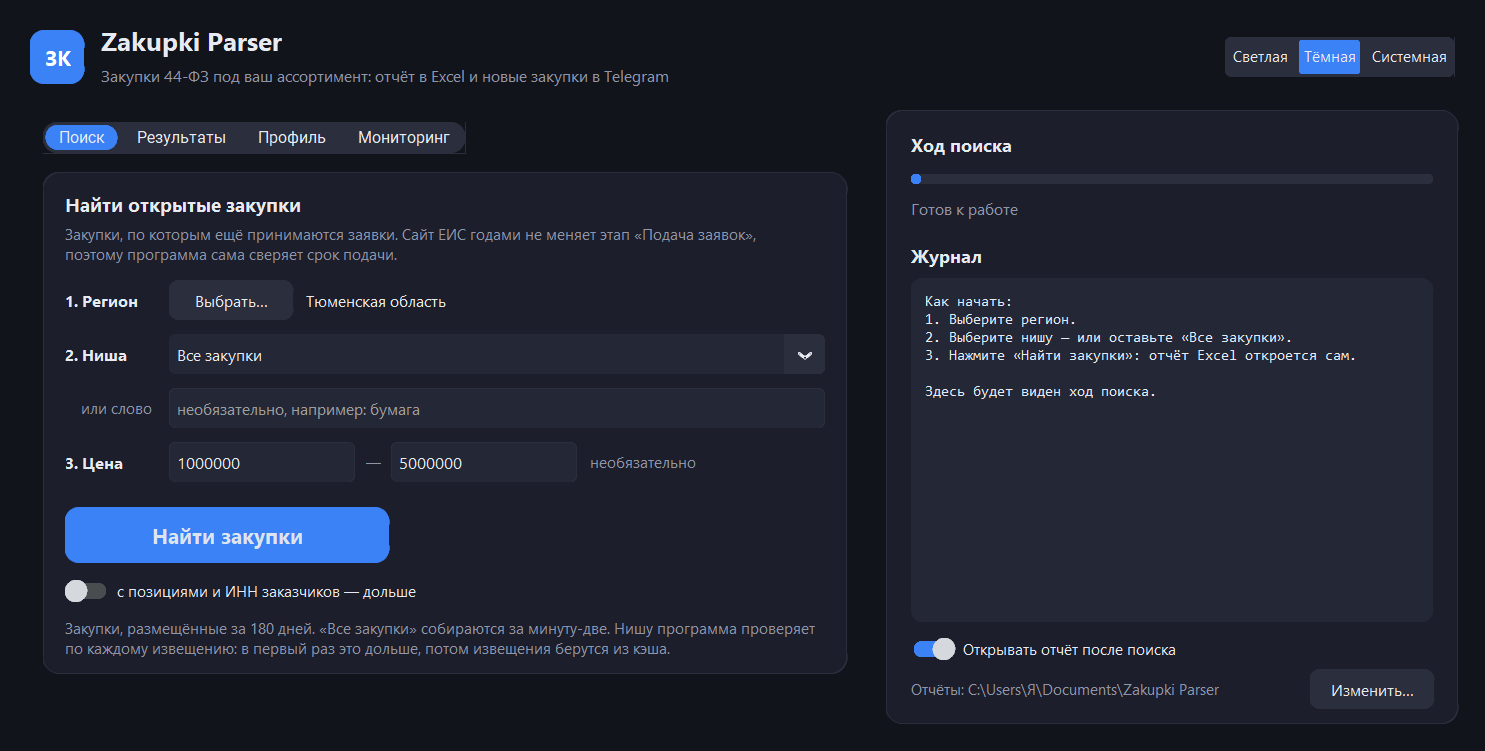
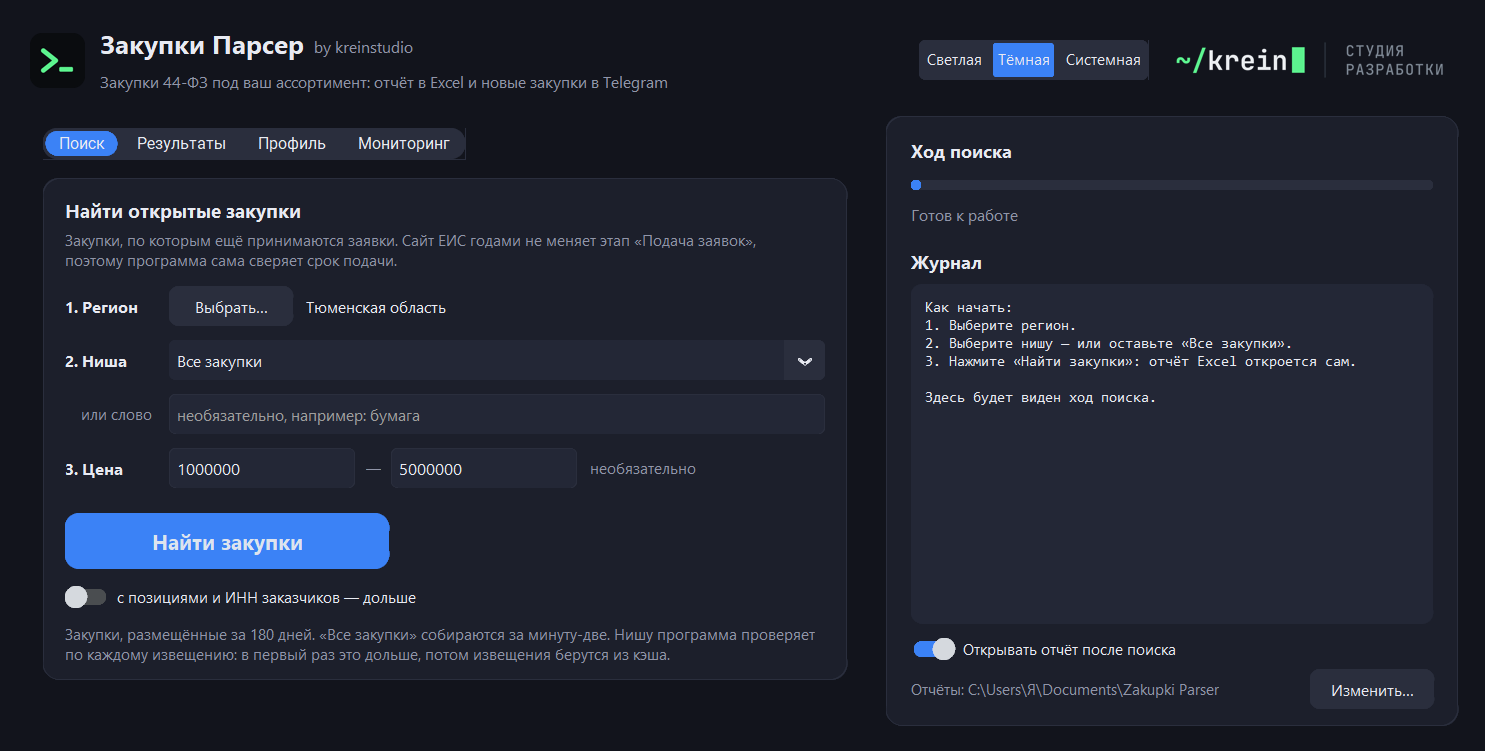
Фирменный стиль автора: «Закупки Парсер by kreinstudio»
- Шапка окна: иконка >_ из фирменного набора krein вместо синего «ЗК», название
  «Закупки Парсер» и ссылка «by kreinstudio», справа полный логотип «~/krein |
  студия разработки» в цвет темы; щелчок открывает kreinstudio.ru. Папки и файлы
  по-прежнему «Zakupki Parser» — отчёты и настройки остаются на месте.
- Значок окна, панели задач и .exe — та же иконка >_ (tools/make_icon.py собирает
  icon.ico из assets/brand/icon-dark-512.png).
- README: логотип в шапке (светлый и тёмный под тему GitHub), заголовок
  «Закупки Парсер»; логотип — знак автора, под MIT не распространяется.
- Pillow стал зависимостью программы: картинки в окне CustomTkinter показывает
  через неё. Без неё окно работает, только без картинок.
- GIF: одна палитра на все кадры с фирменными цветами — своя палитра у каждого
  кадра делала зелёный курсор логотипа серым; заодно файл вдвое меньше.

diff --git a/zkparser/gui/app.py b/zkparser/gui/app.py
@@ -38,7 +38,7 @@ from ..pipeline import Found, RunResult, run_profiles
 from ..profiles import Profile, ProfileError, from_template, load_profile, load_templates, parse_profile, save_profile
 from ..regions import REGIONS
 from ..scheduler import MOSCOW, SchedulerError
-from ..settings import APP_NAME, app_data_dir, default_cache_dir, default_output_dir, profiles_dir
+from ..settings import app_data_dir, default_cache_dir, default_output_dir, profiles_dir
 from ..telegram import SecretFilter, TelegramBot, TelegramError
 from ..website.client import SiteClient
 from . import theme
@@ -66,6 +66,10 @@ NEW_PROFILE = "— новый профиль —"
 NEW_MENU = "Новый профиль…"
 EMPTY_TEMPLATE = "Пустой"
 MAX_RESULT_CARDS = 60
+TITLE = "Закупки Парсер"  # the name the window shows; folders and files keep APP_NAME, "Zakupki Parser"
+BRAND_URL = "https://kreinstudio.ru/"
+ICON_SIZE = (44, 44)
+LOGO_SIZE = (233, 46)  # the full logo, 1651×326, with its clear space: the drawing is 213 px wide (the minimum 200)
 SEARCH_TAB, RESULTS_TAB, PROFILE_TAB, MONITORING_TAB = "Поиск", "Результаты", "Профиль", "Мониторинг"
 ALL_NOTICES = "Все закупки"
 MY_PROFILE = "Мой профиль: "  # a saved profile in the niche menu; templates are listed by their names
@@ -116,7 +120,7 @@ class App(ctk.CTk):
         self._filters_loaded = False
         self._closing = False
 
-        self.title(f"{APP_NAME} {__version__}")
+        self.title(f"{TITLE} {__version__}")
         self._size_window(1240, 820)
         icon = theme.resource_path("assets/icon.ico")
         if icon.exists():
@@ -171,16 +175,31 @@ class App(ctk.CTk):
     def _build_header(self) -> None:
         header = ctk.CTkFrame(self, fg_color="transparent")
         header.pack(fill="x", padx=24, pady=(18, 14))
-        ctk.CTkLabel(header, text="ЗК", width=44, height=44, corner_radius=12, fg_color=theme.ACCENT,
-                     text_color="#FFFFFF", font=theme.font(17, "bold")).pack(side="left")
+        icon = _brand_image("icon-dark-512.png", "icon-dark-512.png", ICON_SIZE)
+        if icon:
+            ctk.CTkLabel(header, image=icon, text="").pack(side="left")
+        else:  # sources run without Pillow
+            ctk.CTkLabel(header, text=">_", width=44, height=44, corner_radius=12, fg_color="#0A0C0F",
+                         text_color="#5CF28E", font=theme.font(17, "bold")).pack(side="left")
         titles = ctk.CTkFrame(header, fg_color="transparent")
         titles.pack(side="left", padx=12)
-        ctk.CTkLabel(titles, text=APP_NAME, font=theme.font(21, "bold"), text_color=theme.TEXT).pack(anchor="w")
+        name = ctk.CTkFrame(titles, fg_color="transparent")
+        name.pack(anchor="w")
+        ctk.CTkLabel(name, text=TITLE, font=theme.font(21, "bold"), text_color=theme.TEXT).pack(side="left")
+        author = ctk.CTkLabel(name, text="by kreinstudio", font=theme.font(13), text_color=theme.TEXT_MUTED,
+                              cursor="hand2")
+        author.pack(side="left", padx=(8, 0), pady=(6, 0))
+        author.bind("<Button-1>", lambda _: webbrowser.open(BRAND_URL))
         ctk.CTkLabel(titles, text="Закупки 44-ФЗ под ваш ассортимент: отчёт в Excel и новые закупки в Telegram",
                      font=theme.font(13), text_color=theme.TEXT_MUTED).pack(anchor="w")
+        image = _brand_image("logo-light@2x.png", "logo-dark@2x.png", LOGO_SIZE)
+        logo = ctk.CTkLabel(header, image=image, text="", cursor="hand2") if image else None
+        if logo:
+            logo.pack(side="right")
+            logo.bind("<Button-1>", lambda _: webbrowser.open(BRAND_URL))
         self.appearance = segmented(header, ["Светлая", "Тёмная", "Системная"], self._set_appearance)
         self.appearance.set(self.prefs.appearance)
-        self.appearance.pack(side="right")
+        self.appearance.pack(side="right", padx=(0, 12 if logo else 0))
         self._set_appearance(self.prefs.appearance)
 
     def _build_search_tab(self, tab: ctk.CTkBaseClass) -> None:
@@ -518,7 +537,7 @@ class App(ctk.CTk):
             profile = load_profile(path)
         except ProfileError as error:
             self._log("error", str(error))
-            messagebox.showerror(APP_NAME, str(error), parent=self)
+            messagebox.showerror(TITLE, str(error), parent=self)
             return
         self.profile_path = path
         self.prefs.profile = name
@@ -1164,7 +1183,7 @@ class App(ctk.CTk):
 
     def _warn(self, message: str) -> None:
         self._log("warning", message)
-        messagebox.showwarning(APP_NAME, message, parent=self)
+        messagebox.showwarning(TITLE, message, parent=self)
 
     # ------------------------------------------------------------------ files and appearance
 
@@ -1208,7 +1227,7 @@ class App(ctk.CTk):
     def _on_close(self) -> None:
         self._save_preferences()
         if self._busy():
-            if not messagebox.askyesno(APP_NAME, "Поиск ещё идёт. Остановить и выйти?", parent=self):
+            if not messagebox.askyesno(TITLE, "Поиск ещё идёт. Остановить и выйти?", parent=self):
                 return
             self._closing = True
             self.cancel_event.set()
@@ -1237,6 +1256,18 @@ class App(ctk.CTk):
 def _show_region_names(widget: ctk.CTkLabel, codes: list[str]) -> None:
     names = [REGIONS[code] for code in codes if code in REGIONS]
     widget.configure(text=", ".join(names) or "не выбраны", text_color=theme.TEXT if names else theme.DANGER)
+
+
+def _brand_image(light: str, dark: str, size: tuple[int, int]) -> ctk.CTkImage | None:
+    """An image of the author's brand kit (assets/brand) for the light and the dark theme."""
+    try:
+        from PIL import Image
+    except ImportError:  # sources run without Pillow: the window works, only without the pictures
+        return None
+    paths = [theme.resource_path(f"assets/brand/{name}") for name in (light, dark)]
+    if not all(path.exists() for path in paths):
+        return None
+    return ctk.CTkImage(light_image=Image.open(paths[0]), dark_image=Image.open(paths[1]), size=size)
 
 
 def _menu_choice(remembered: str) -> str:

diff --git a/tools/make_icon.py b/tools/make_icon.py
@@ -1,6 +1,7 @@
-"""Generate assets/icon.ico and icon.png (run once; the result is committed).
+"""Generate assets/icon.ico and icon.png from the author's brand icon (run once; the result is committed).
 
-A notice sheet with lines of text and a green tick: a procurement that fits.
+The icon is ">_" of the krein brand kit, green on a dark rounded square (assets/brand/icon-dark-512.png): the window,
+the taskbar and the .exe show it, and so does the header of the window.
 
 Usage: python tools/make_icon.py
 """
@@ -9,48 +10,17 @@ from __future__ import annotations
 
 from pathlib import Path
 
-from PIL import Image, ImageDraw
+from PIL import Image
 
-SIZE = 512
-ACCENT_TOP = (59, 130, 246)
-ACCENT_BOTTOM = (29, 78, 216)
-SHEET = (255, 255, 255)
-LINES = (191, 207, 236)
-TICK_BG = (22, 163, 74)
-OUTPUT = Path(__file__).resolve().parents[1] / "assets" / "icon.ico"
+ASSETS = Path(__file__).resolve().parents[1] / "assets"
+SOURCE = ASSETS / "brand" / "icon-dark-512.png"
+OUTPUT = ASSETS / "icon.ico"
+SIZES = [(16, 16), (20, 20), (24, 24), (32, 32), (40, 40), (48, 48), (64, 64), (128, 128), (256, 256)]
 
 
 def main() -> None:
-    image = Image.new("RGBA", (SIZE, SIZE), (0, 0, 0, 0))
-    gradient = Image.new("RGBA", (SIZE, SIZE))
-    draw = ImageDraw.Draw(gradient)
-    for y in range(SIZE):
-        ratio = y / SIZE
-        pairs = zip(ACCENT_TOP, ACCENT_BOTTOM, strict=True)
-        color = tuple(round(top + (bottom - top) * ratio) for top, bottom in pairs)
-        draw.line([(0, y), (SIZE, y)], fill=(*color, 255))
-    mask = Image.new("L", (SIZE, SIZE), 0)
-    ImageDraw.Draw(mask).rounded_rectangle([0, 0, SIZE - 1, SIZE - 1], radius=int(SIZE * 0.22), fill=255)
-    image.paste(gradient, (0, 0), mask)
-
-    draw = ImageDraw.Draw(image)
-    left, top, right, bottom = (int(SIZE * k) for k in (0.25, 0.17, 0.71, 0.83))
-    draw.rounded_rectangle([left, top, right, bottom], radius=int(SIZE * 0.05), fill=SHEET)
-    line_left, line_right = left + int(SIZE * 0.07), right - int(SIZE * 0.07)
-    for index, width in enumerate((1.0, 0.8, 1.0, 0.55)):
-        y = top + int(SIZE * (0.12 + index * 0.1))
-        draw.rounded_rectangle([line_left, y, line_left + int((line_right - line_left) * width), y + int(SIZE * 0.035)],
-                               radius=int(SIZE * 0.017), fill=LINES)
-
-    center, radius = (int(SIZE * 0.69), int(SIZE * 0.7)), int(SIZE * 0.15)
-    draw.ellipse([center[0] - radius, center[1] - radius, center[0] + radius, center[1] + radius], fill=TICK_BG,
-                 outline=SHEET, width=int(SIZE * 0.025))
-    tick = [(center[0] - radius * 0.45, center[1]), (center[0] - radius * 0.1, center[1] + radius * 0.38),
-            (center[0] + radius * 0.5, center[1] - radius * 0.35)]
-    draw.line(tick, fill=SHEET, width=int(SIZE * 0.045), joint="curve")
-
-    OUTPUT.parent.mkdir(parents=True, exist_ok=True)
-    image.save(OUTPUT, sizes=[(16, 16), (24, 24), (32, 32), (48, 48), (64, 64), (128, 128), (256, 256)])
+    image = Image.open(SOURCE).convert("RGBA")
+    image.save(OUTPUT, sizes=SIZES)
     image.resize((256, 256), Image.LANCZOS).save(OUTPUT.with_suffix(".png"))
     print(f"saved {OUTPUT}")
 

diff --git a/tools/record_demo.py b/tools/record_demo.py
@@ -27,6 +27,8 @@ from zkparser.gui.widgets import set_entry  # noqa: E402
 FRAME_MS = 400
 WIDTH = 1100  # the GIF is scaled down to this width
 SCROLL_STEPS = 12
+# The krein kit: the green of "~/" and of the cursor on light and on dark, the dark of the icon, the caption grey.
+BRAND_COLORS = [(0x0C, 0x9A, 0x4A), (0x5C, 0xF2, 0x8E), (0x0A, 0x0C, 0x0F), (0x12, 0x14, 0x18), (0x6F, 0x76, 0x80)]
 
 
 def main() -> None:
@@ -95,11 +97,26 @@ def save_gif(frames: list[Image.Image], output: Path) -> None:
             merged[-1] = (merged[-1][0], merged[-1][1] + FRAME_MS)
         else:
             merged.append((frame, FRAME_MS))
-    images = [frame.convert("P", palette=Image.ADAPTIVE, colors=128) for frame, _ in merged]
+    palette = shared_palette([frame for frame, _ in merged])
+    images = [frame.quantize(palette=palette, dither=Image.Dither.NONE) for frame, _ in merged]
     durations = [duration for _, duration in merged]
     durations[-1] = 2500  # rest on the last frame before the loop starts again
     output.parent.mkdir(parents=True, exist_ok=True)
     images[0].save(output, save_all=True, append_images=images[1:], duration=durations, loop=0, optimize=True)
+
+
+def shared_palette(frames: list[Image.Image]) -> Image.Image:
+    """One palette for all frames with the brand's colours kept exactly: a palette of its own for every frame turned
+    the green of the logo grey on some of them."""
+    thumbs = [frame.resize((frame.width // 2, frame.height // 2)) for frame in frames]
+    sample = Image.new("RGB", (thumbs[0].width, thumbs[0].height * len(thumbs)))
+    for index, thumb in enumerate(thumbs):
+        sample.paste(thumb, (0, index * thumb.height))
+    adaptive = sample.quantize(colors=256 - len(BRAND_COLORS), method=Image.Quantize.MEDIANCUT)
+    colors = adaptive.getpalette()[: 3 * (256 - len(BRAND_COLORS))]
+    palette = Image.new("P", (1, 1))
+    palette.putpalette(colors + [channel for color in BRAND_COLORS for channel in color])
+    return palette
 
 
 if __name__ == "__main__":

diff --git a/README.md b/README.md
@@ -1,4 +1,11 @@
-# Zakupki Parser — извещения о госзакупках 44-ФЗ в Excel
+<a href="https://kreinstudio.ru/">
+  <picture>
+    <source media="(prefers-color-scheme: dark)" srcset="assets/brand/logo-dark@2x.png">
+    <img src="assets/brand/logo-light@2x.png" alt="krein — студия разработки" width="260">
+  </picture>
+</a>
+
+# Закупки Парсер — извещения о госзакупках 44-ФЗ в Excel
 
 [![Тесты](https://github.com/krein15/zakupki-parser/actions/workflows/tests.yml/badge.svg)](https://github.com/krein15/zakupki-parser/actions/workflows/tests.yml)
 
@@ -312,4 +319,4 @@ ruff check .
 
 ## Лицензия
 
-[MIT](LICENSE)
+[MIT](LICENSE) — для кода. Логотип krein в `assets/brand/` — знак автора, под MIT не распространяется.
